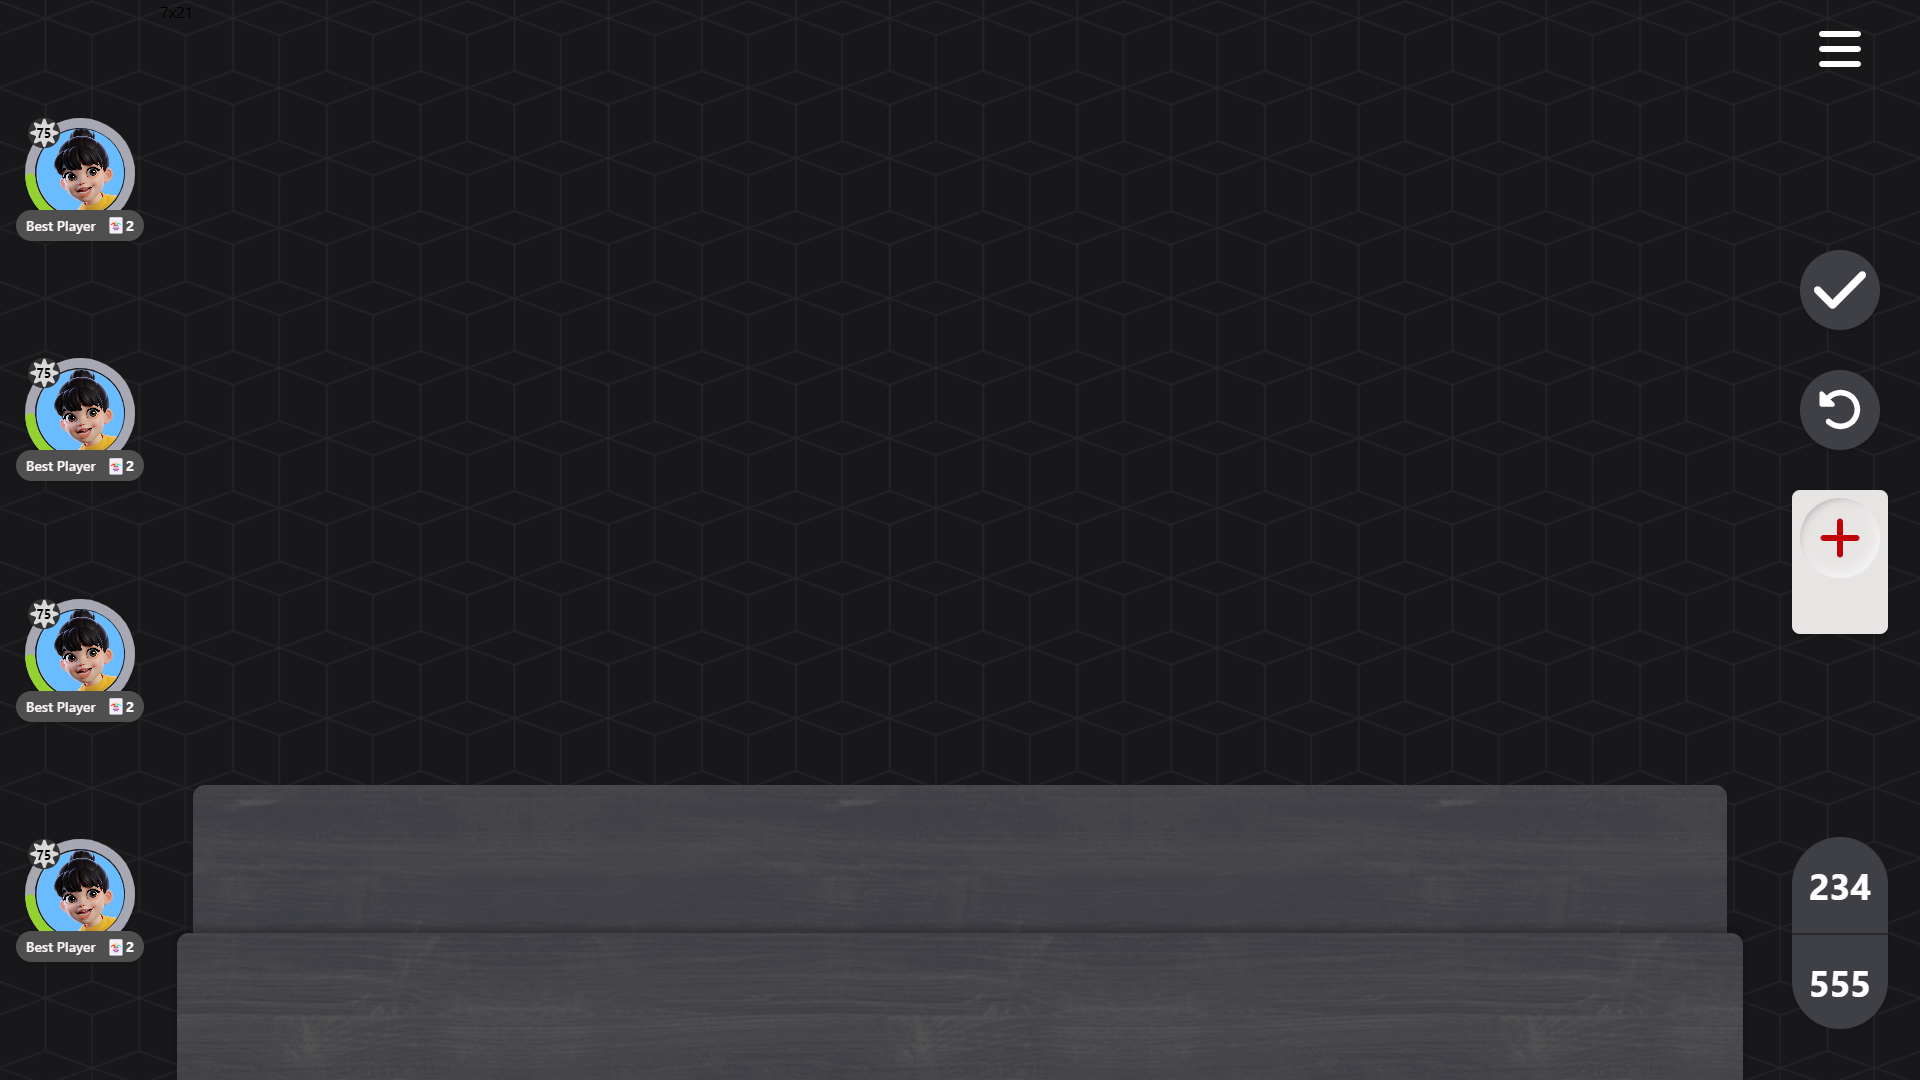
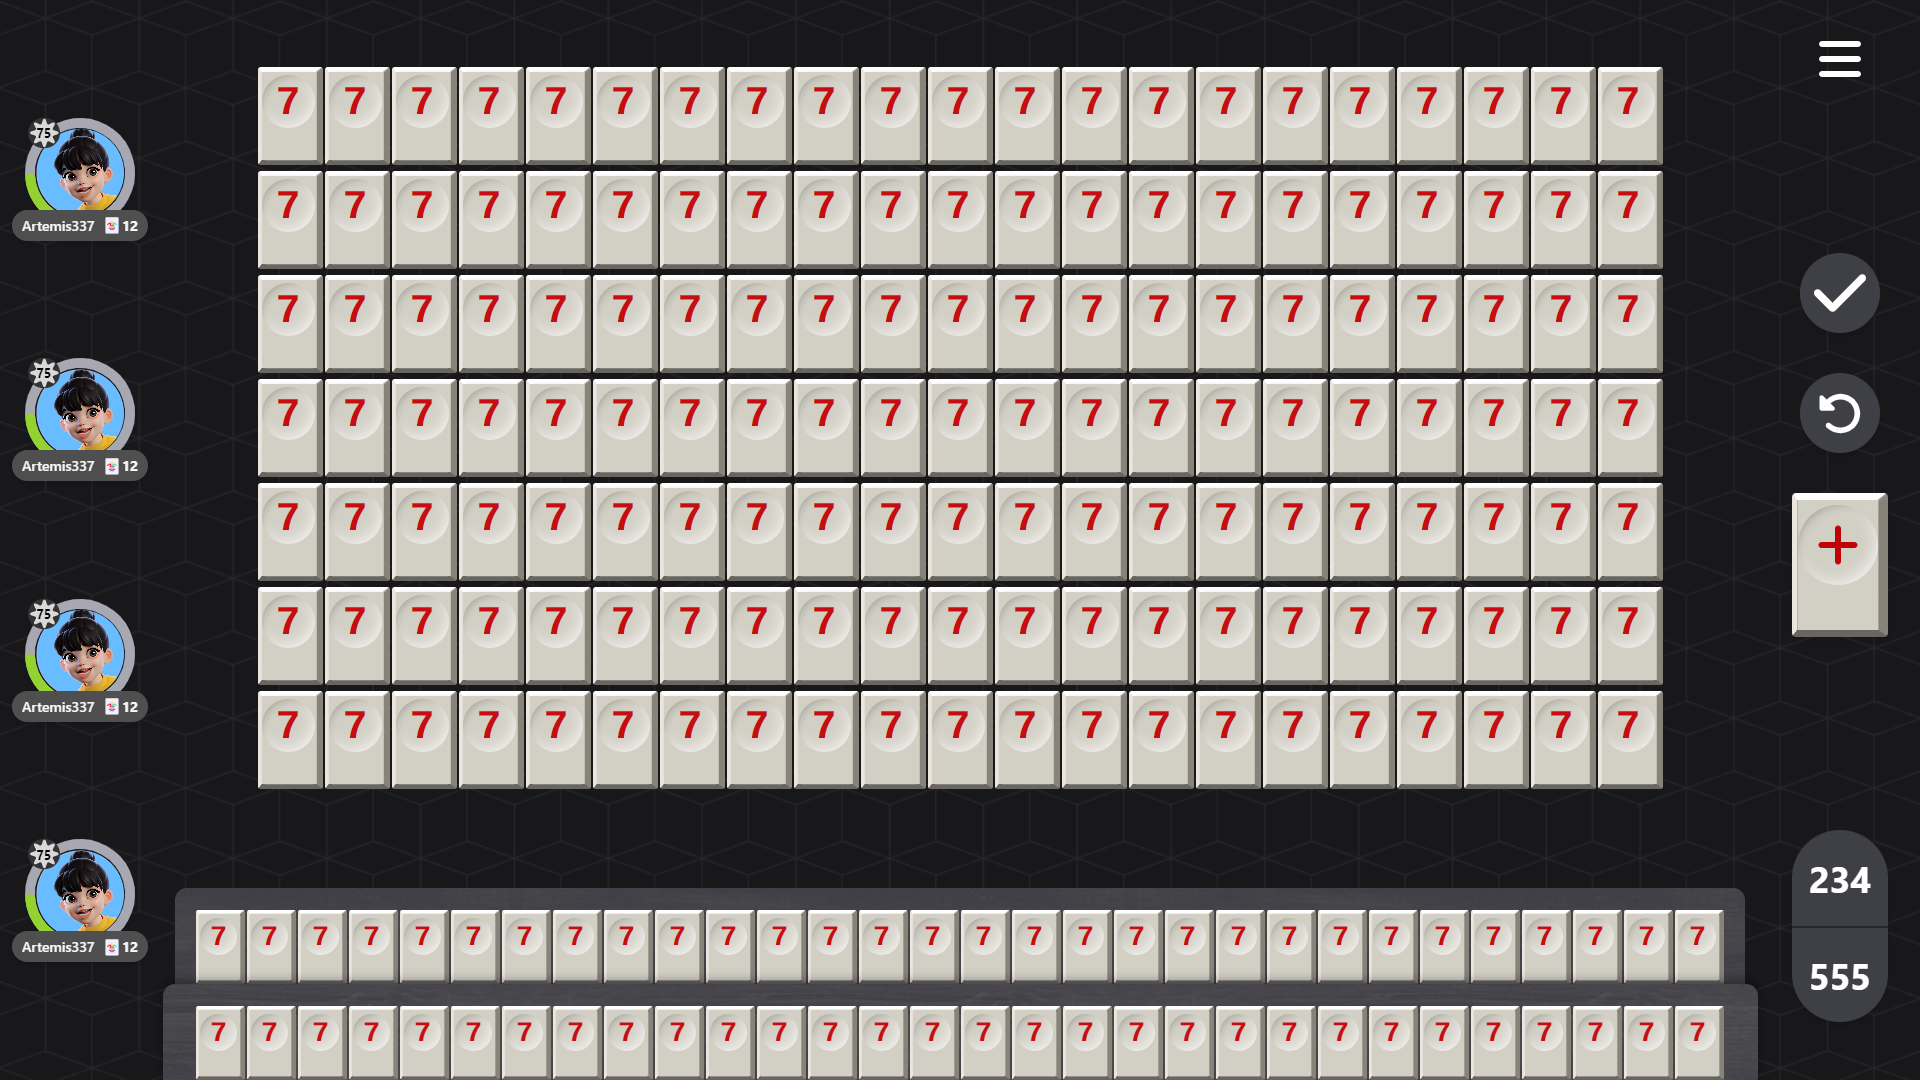
Novo ScreenShot

diff --git a/src/components/GameButtons/Tile/Tile.jsx b/src/components/GameButtons/Tile/Tile.jsx
@@ -2,13 +2,13 @@ import React from 'react';
 import './Tile.css';
 import tileSvg from '../../../assets/tile.svg';
 
-function Tile({ width = 96, height = 169.5, color = 'blue', number = 13 }) {
-  const circleWidth = width - 22;
-  const fontSize = circleWidth * 0.7; // 60% da largura do círculo
+function Tile({ width = 96, height = 169.5, color = '#c60d11', number = 7 }) {
+  const circleWidth = width - 12;
+  const fontSize = circleWidth * 0.7;
 
   return (
     <div
-      className='flex items-start justify-center bg-center bg-no-repeat pt-3 pr-1'
+      className='flex items-start justify-center bg-center bg-no-repeat pt-2 pr-1'
       style={{ backgroundImage: `url(${tileSvg})`, backgroundSize: '100% 100%', width: `${width}px`, height: `${height}px` }}
     >
       <div

diff --git a/src/components/Deck/Deck.jsx b/src/components/Deck/Deck.jsx
@@ -64,7 +64,9 @@ const Deck = () => {
             height: `${cellSize.height}px`,
           }}
           className="deckCell"
-        ></div>
+        >
+           <Tile width={cellSize.width} height={cellSize.height} />
+        </div>
       );
     }
   }

diff --git a/src/components/Board/Board.jsx b/src/components/Board/Board.jsx
@@ -30,7 +30,7 @@ const Board = ({ rows = 7 }) => {
           }}
           className='boardCell'
         >
-           
+            <Tile width={cellSize.width} height={cellSize.height} />
         </div>
         
       );
